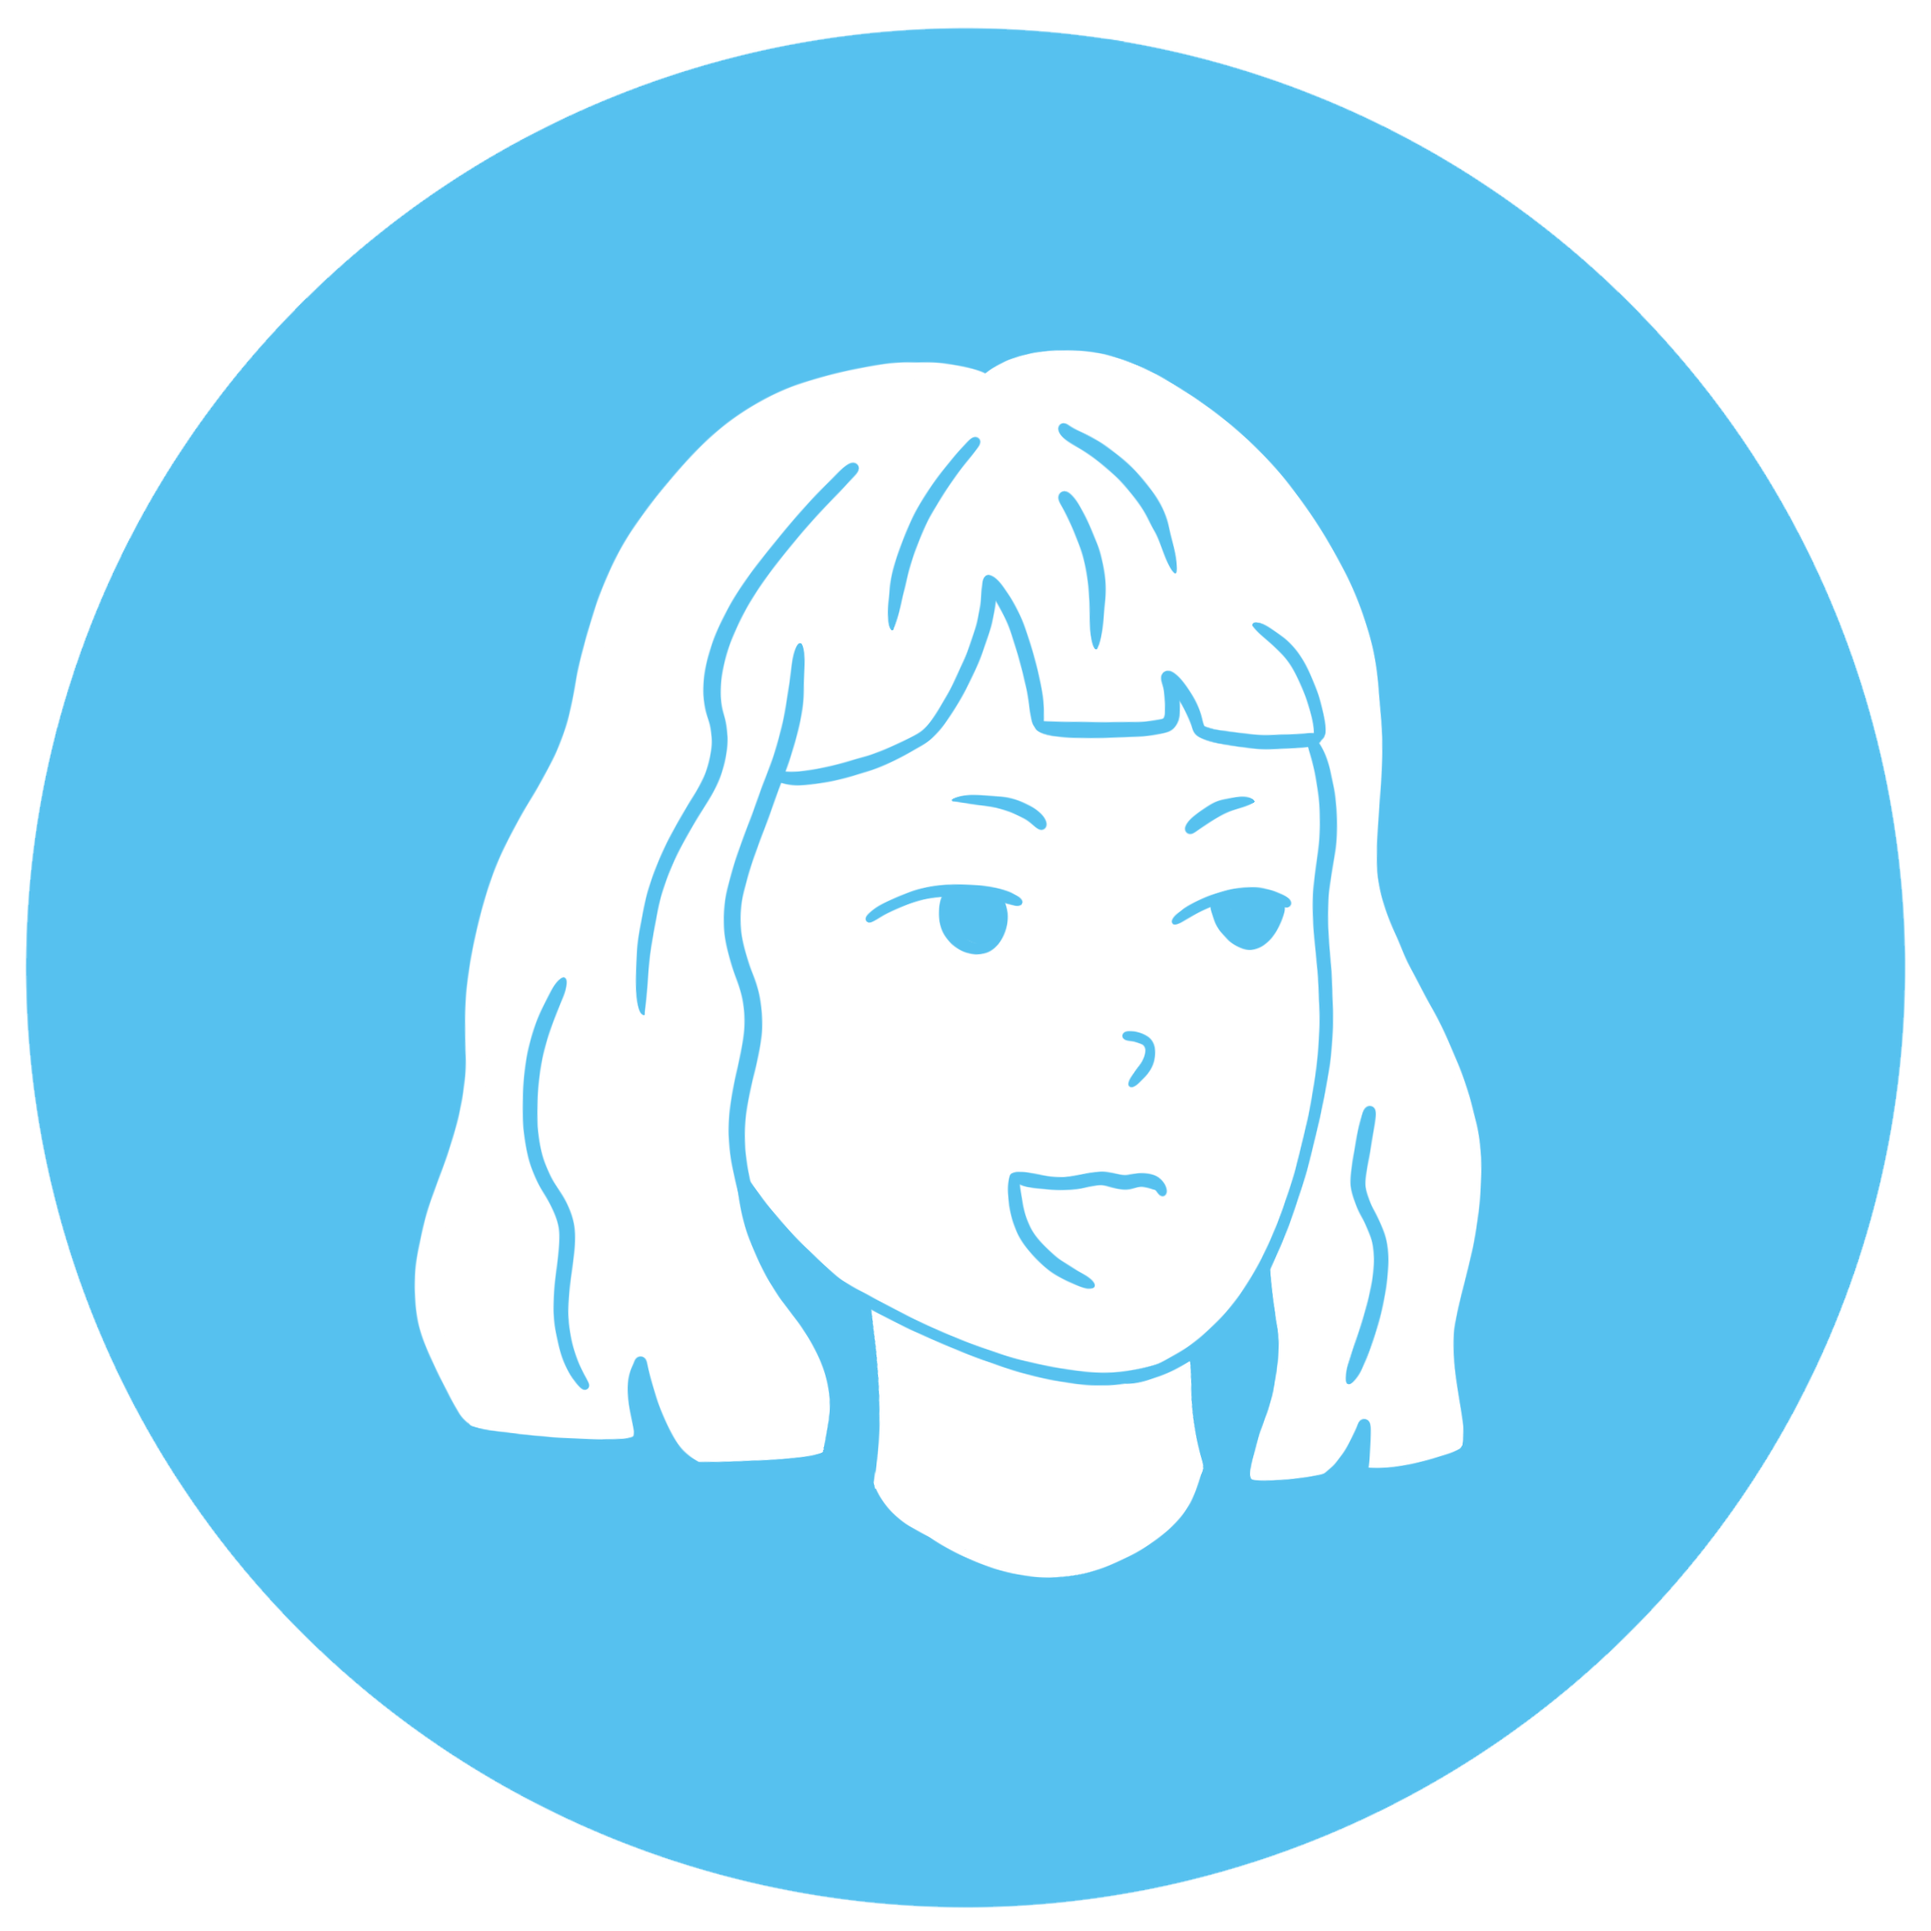
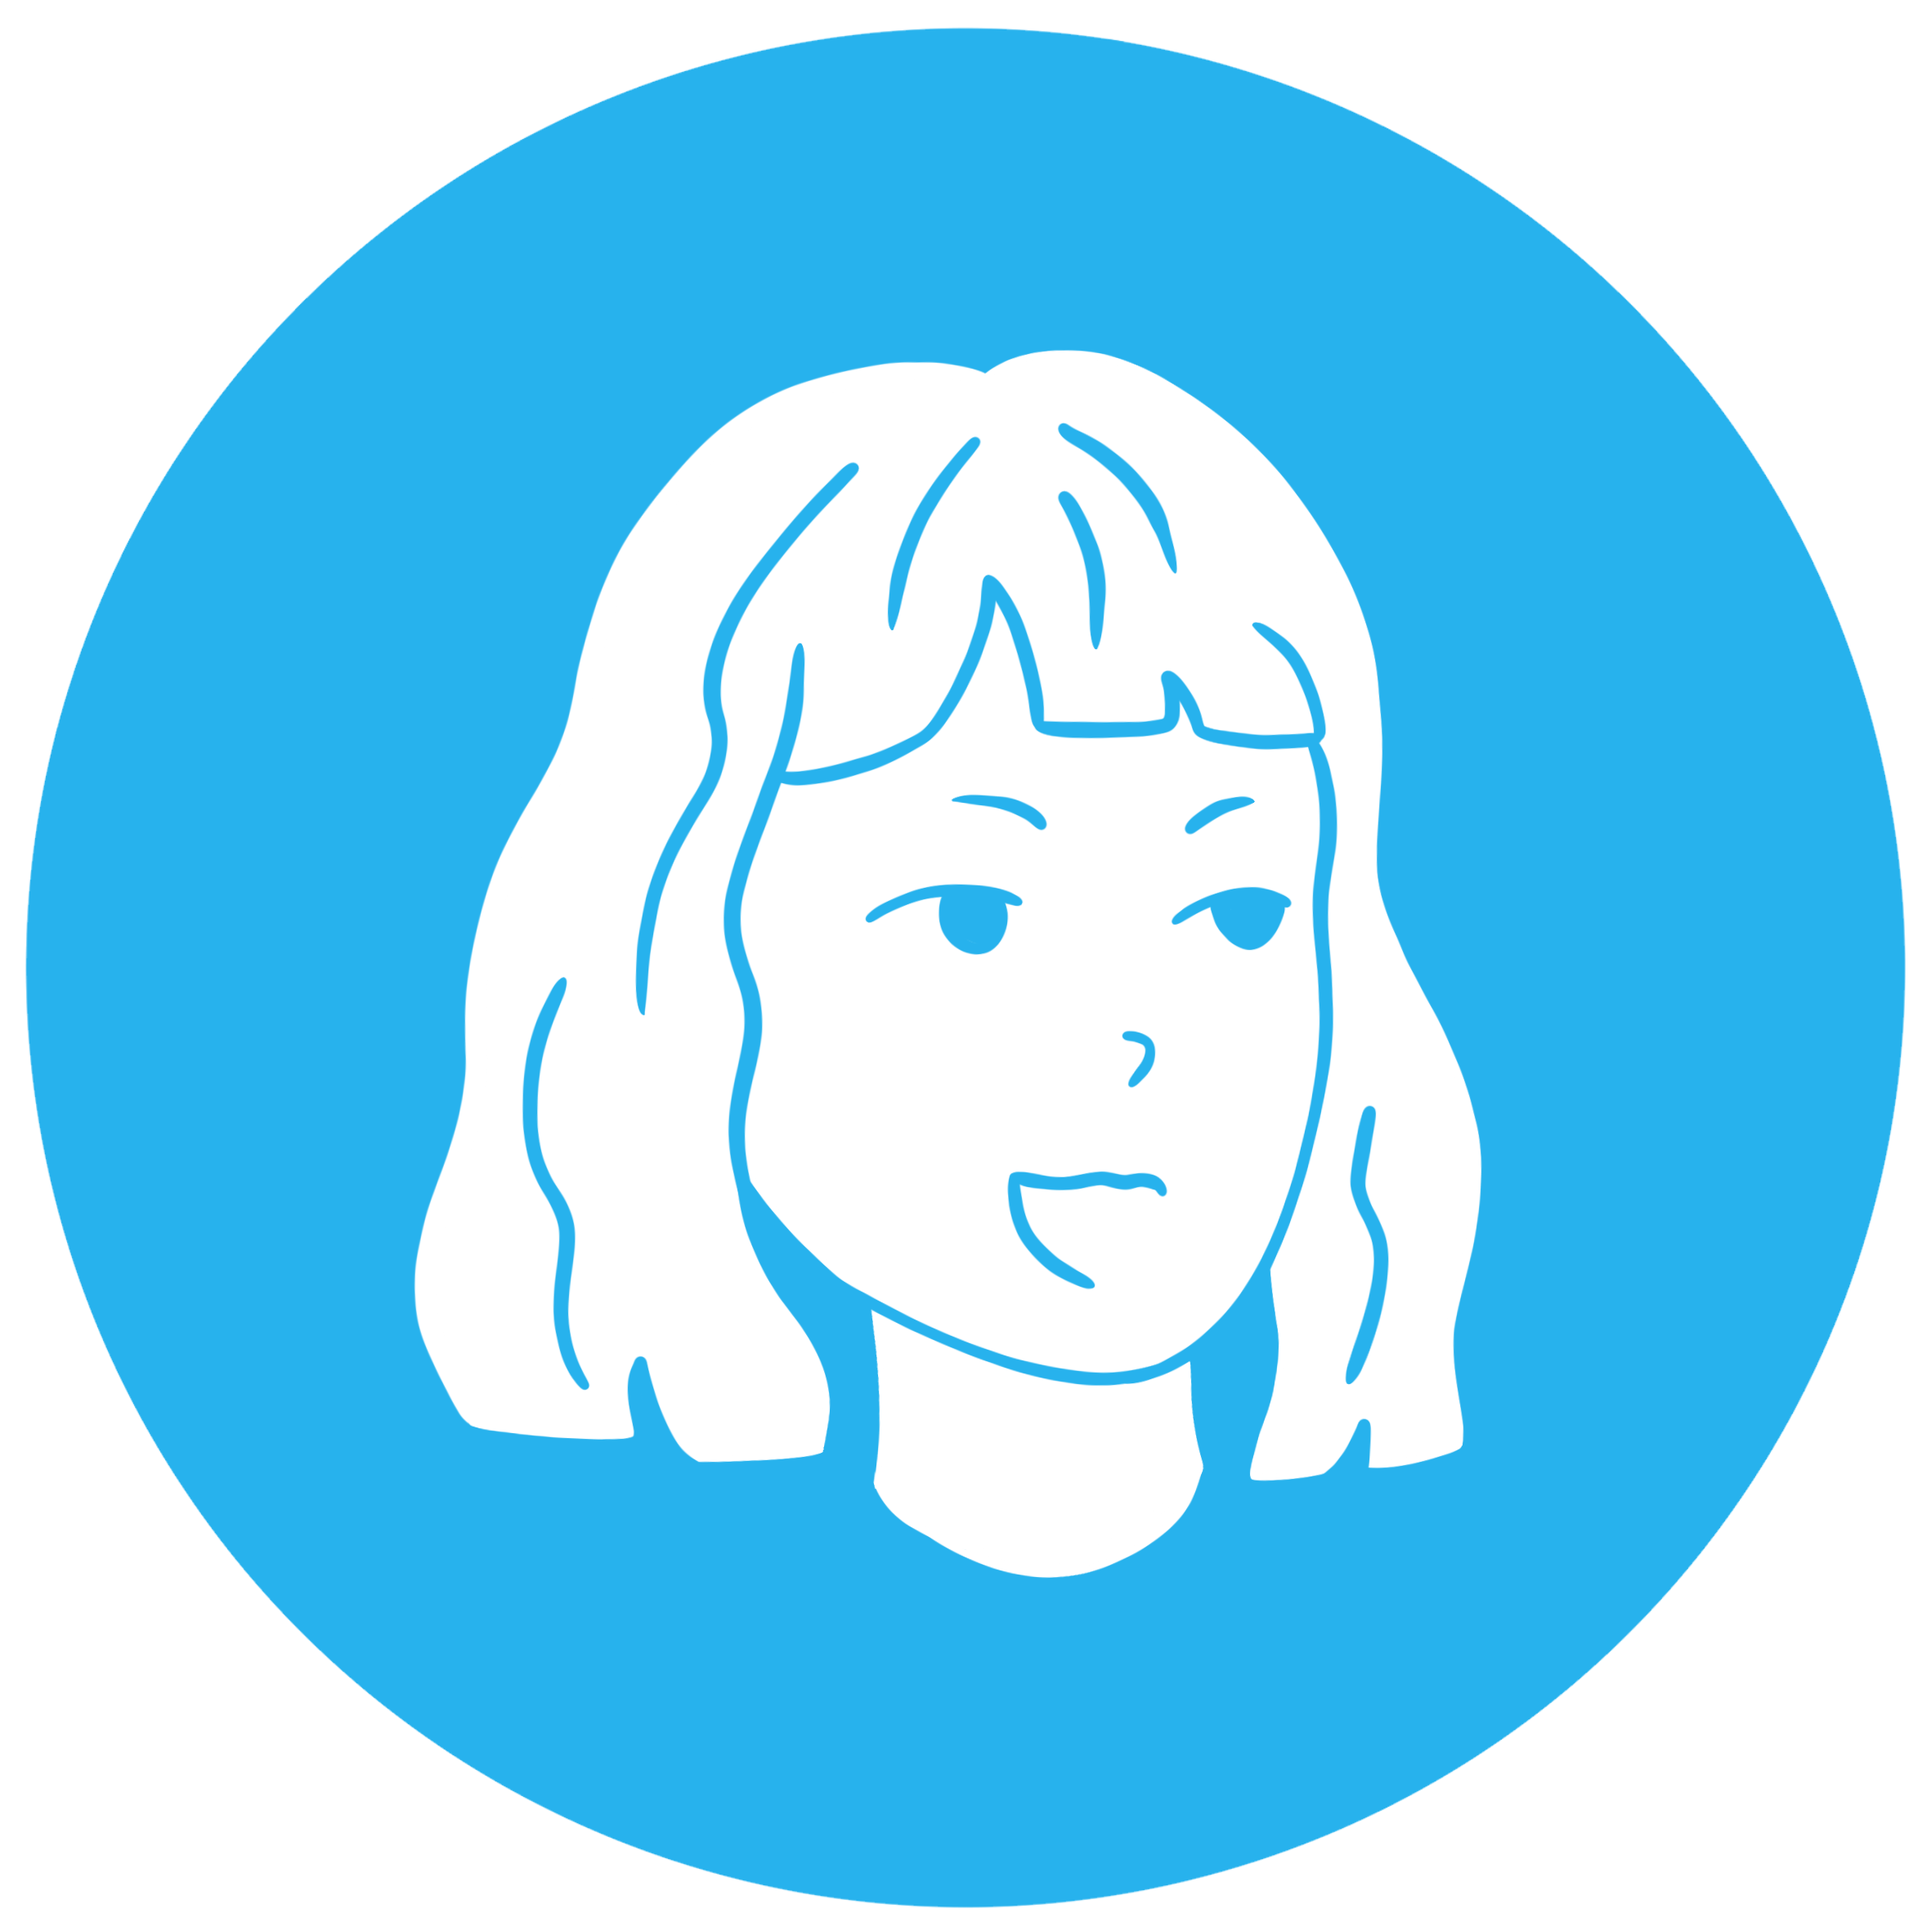
replaced Pailin-Blue, added Pailin-Black-Line

diff --git a/src/Components/AccordionItem.jsx b/src/Components/AccordionItem.jsx
@@ -1,36 +1,38 @@
 import React, { useState } from "react";
 import "../Styles/AccordionItem.css";
 
-function AccordionItem({ title, content, onToggle }) {
-  const [isOpen, setIsOpen] = useState(false);
 
-  const toggleAccordion = () => {
-    const newIsOpen = !isOpen;
-    setIsOpen(newIsOpen);
-    onToggle(newIsOpen);
-  };
 
-  return (
-    <div className={`accordion-item ${isOpen ? "open" : ""}`}>
-      <button className="accordion-header" onClick={toggleAccordion}>
-        <p>
-          <span>{title}</span>
-        </p>
-        <span className="accordion-arrow">{isOpen ? "▲" : "▼"}</span>
-      </button>
-      {isOpen && (
-        <div className="accordion-content">
-          {Array.isArray(content)
-            ? content.map((paragraph, index) => (
-                <p key={index} className="accordion-paragraph">
-                  {paragraph}
-                </p>
-              ))
-            : <p>{content}</p>}
-        </div>
-      )}
-    </div>
-  );
-}
+  function AccordionItem({ title, content, onToggle }) {
+    const [isOpen, setIsOpen] = useState(false);
+
+    const toggleAccordion = () => {
+      const newIsOpen = !isOpen;
+      setIsOpen(newIsOpen);
+      onToggle(newIsOpen);
+    };
+
+    return (
+      <div className={`accordion-item ${isOpen ? "open" : ""}`}>
+        <button className="accordion-header" onClick={toggleAccordion}>
+          <span>
+            <span>{title}</span>
+          </span>
+          <span className="accordion-arrow">{isOpen ? "▲" : "▼"}</span>
+        </button>
+        {isOpen && (
+          <div className="accordion-content">
+            {Array.isArray(content)
+              ? content.map((paragraph, index) => (
+                  <div key={index} className="accordion-paragraph">
+                    {paragraph}
+                  </div>
+                ))
+              : <div>{content}</div>}
+          </div>
+        )}
+      </div>
+    );
+  }
 
 export default AccordionItem;

diff --git a/src/App.jsx b/src/App.jsx
@@ -3,6 +3,7 @@ import AccordionItem from './Components/AccordionItem';
 import "./Styles/Header.css";
 import './App.css';
 import PailinImage from './assets/Pailin-blue.png';
+import PailinBlackLine from './assets/Pailin-black-line.png'
 import Header from './Components/Header';
 import Footer from './Components/Footer';
 
@@ -18,8 +19,19 @@ function App() {
     },
     {
       title: "Who is Pailin?",
-      content:
-        "Pailin, a 21-year-old Thai girl from Bangkok, is at the heart of the platform. While she embarks on a year-long study abroad program in Los Angeles, you will follow along as she adapts to a new country, makes friends, interacts with her host family, explores a budding romance, and embraces a different culture. By getting to know Pailin, you will feel connected to her story and motivated to move through the narrative, improving your English along the way.",
+      content: (
+        <>
+          <div>
+            Pailin, a 21-year-old Thai girl from Bangkok, is at the heart of the platform. While she embarks on a year-long study abroad program in Los Angeles, you will follow along as she adapts to a new country, makes friends, interacts with her hostW family, explores a budding romance, and embraces a different culture. By getting to know Pailin, you will feel connected to her story and motivated to move through the narrative, improving your English along the way.
+          </div>
+          <div className='pailin-intro-container'>
+            <div className="pailin-intro">
+              <img src={PailinBlackLine} alt="Pailin Black Line" className="pailin-black-line-image" />
+              <p>Hi, I'm Pailin!</p>
+            </div>
+          </div>
+        </>
+      ),
     },
     {
       title: "Why choose Pailin Abroad?",

diff --git a/src/App.css b/src/App.css
@@ -105,6 +105,35 @@
   margin-top: .5rem;
 }
 
+
+.pailin-intro-container {
+  display: flex;
+  align-items: center;
+  justify-content: center;
+}
+
+.pailin-intro {
+  display: flex;
+  flex-direction: row-reverse;
+  align-items: center;
+  text-align: center;
+  margin-top: 1rem;
+}
+
+.pailin-intro img {
+  width: 10rem; /* Adjust the width as needed */
+  height: auto;
+  object-fit: cover;
+  border-radius: 50%;
+  margin-bottom: 1rem;
+}
+
+.pailin-intro p {
+  font-size: 1.2rem;
+  font-weight: bold;
+  color: #1e1e1e;
+}
+
 /* Image Styling */
 .image-container {
   margin-top: 2rem;
